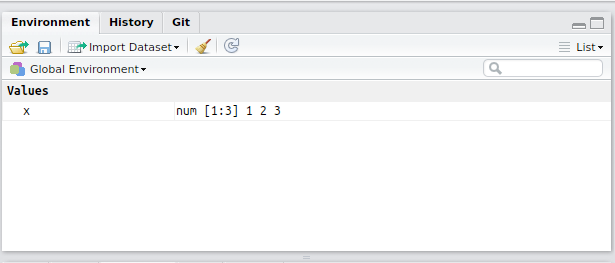
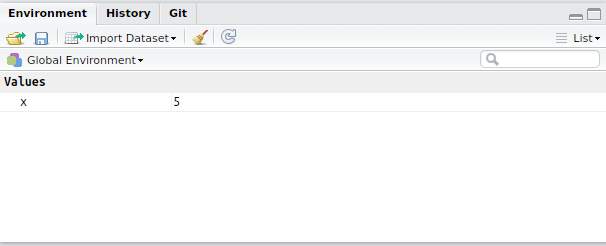
Changed Environment png file

Changed region(s): [[0.0, 0.0, 1.0, 1.0], [0.2673, 0.3984, 0.4752, 0.4553]]

diff --git a/01_Data.html b/01_Data.html
@@ -96,7 +96,7 @@ img {
 <pre class="r"><code>x &lt;- 5
 x</code></pre>
 <pre><code>## [1] 5</code></pre>
[2 lines of base64/hex data omitted]
 <p>Nothing is saved to disk, until we save the complete Environment as an <em>.RData</em> object.</p>
 </div>
 <div id="data-types" class="section level2">
@@ -160,7 +160,7 @@ Groups</code></pre>
 <p>These can be a trap for the unwary, as behind the scenes R has saved these as the integers, corresponding to which category (<em>or factor level</em>) the values belong to.</p>
 <pre class="r"><code>as.integer(Groups)</code></pre>
 <pre><code>## [1] 2 1 1 1 2 2</code></pre>
-<p>In one sense, these are like a hybrid of an integer vector, with a character vector included which contains the various category names. In the old days of puny computers, this was more memory efficient. It also makes sense when you consider statistical modelling is the heart of R.</p>
+<p>In one sense, these are like a hybrid of an integer vector, with a character vector included which contains the various category names. In the old days of puny computers, this was more memory efficient. It also makes sense when you consider statistical modelling is at the heart of R.</p>
 </div>
 
 
